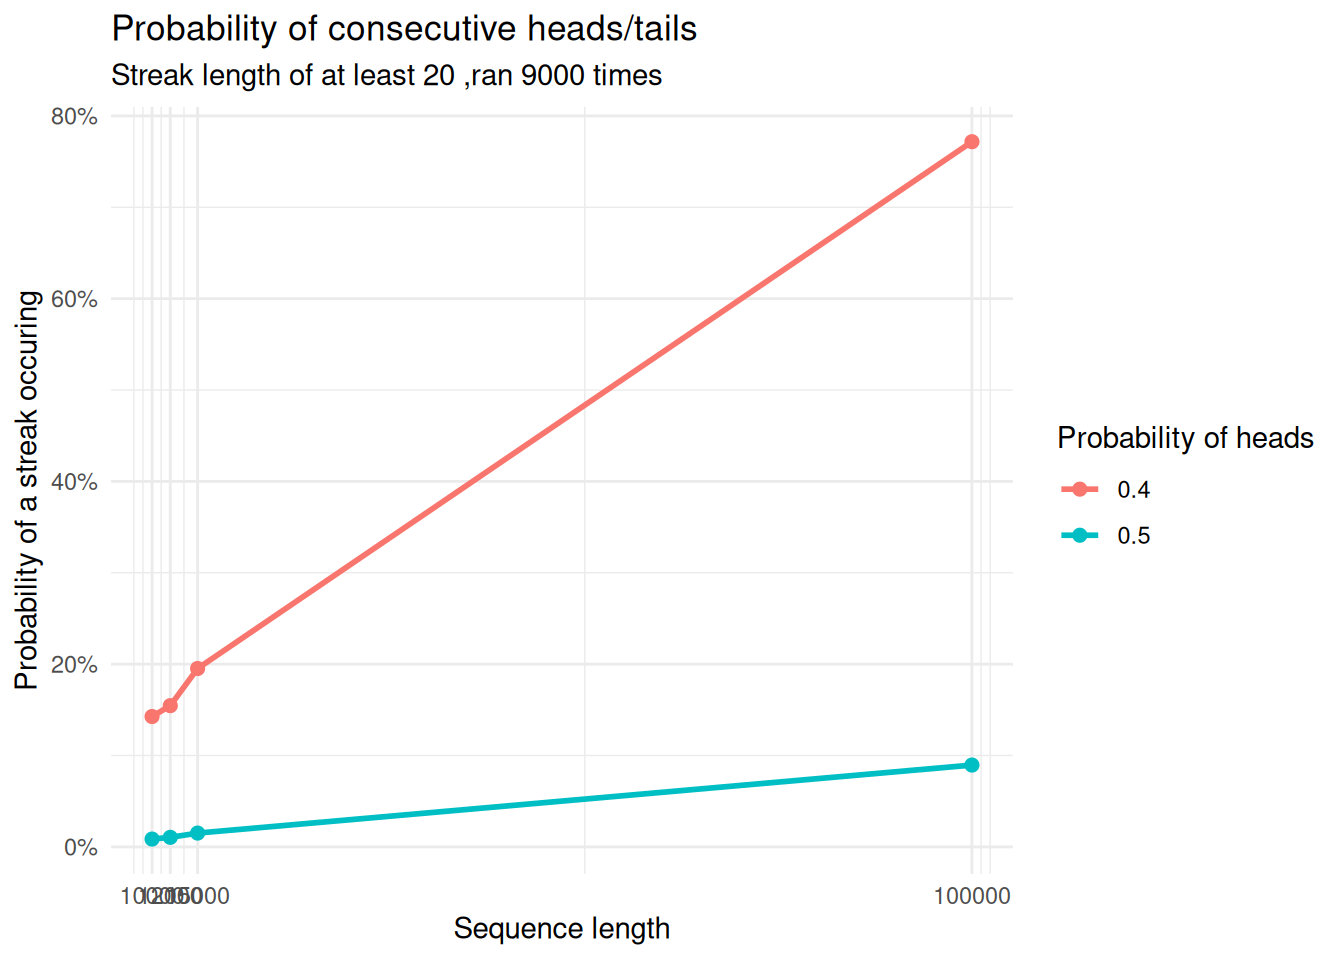
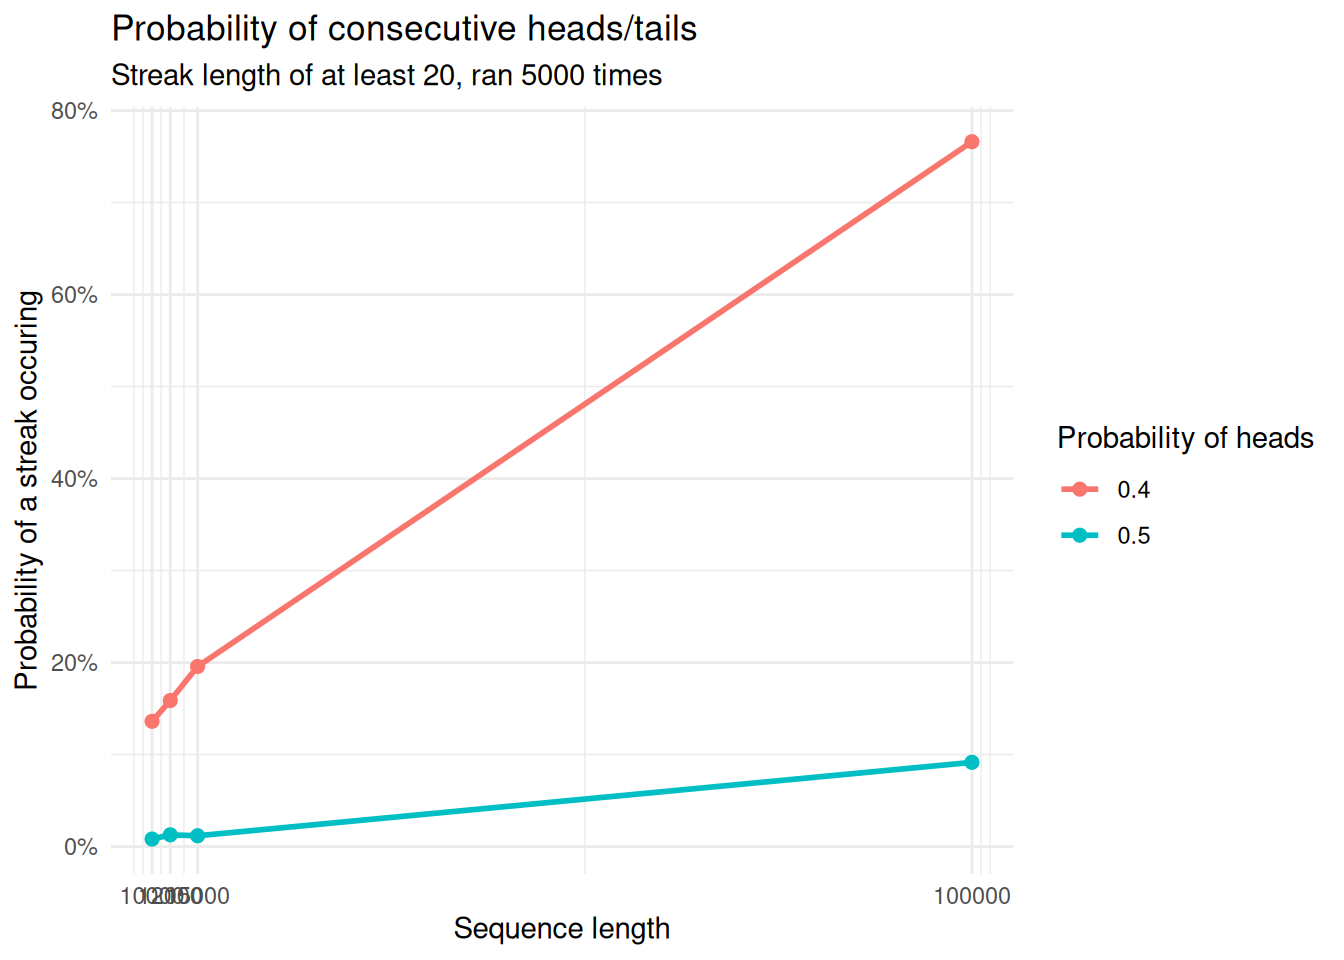
minor changes

diff --git a/docs/binary.html b/docs/binary.html
@@ -7,10 +7,10 @@
 <meta name="viewport" content="width=device-width, initial-scale=1.0, user-scalable=yes">
 
 <meta name="author" content="hzg00-jpg">
-<meta name="dcterms.date" content="2024-11-15">
+<meta name="dcterms.date" content="2024-11-16">
 <meta name="description" content="Analysis of the probability of consecutive streaks">
 
-<title>Birthday problem – Data science</title>
+<title>Consecutive streaks – Data science</title>
 <style>
 /* Default styles provided by pandoc.
 ** See https://pandoc.org/MANUAL.html#variables-for-html for config info.
@@ -210,7 +210,7 @@ window.Quarto = {
 
 <header id="title-block-header" class="quarto-title-block default">
 <div class="quarto-title">
-<h1 class="title">Birthday problem</h1>
+<h1 class="title">Consecutive streaks</h1>
 </div>
 
 <div>
@@ -232,7 +232,7 @@ window.Quarto = {
     <div>
     <div class="quarto-title-meta-heading">Published</div>
     <div class="quarto-title-meta-contents">
-      <p class="date">November 15, 2024</p>
+      <p class="date">November 16, 2024</p>
     </div>
   </div>
   
@@ -246,7 +246,7 @@ window.Quarto = {
 
 <p>Suppose you have a binary sequence: 00101101… that is <span class="math inline">\(n\)</span> bits long (in other words, it contains <span class="math inline">\(n\)</span> ‘digits’).</p>
 <p>What is the possibility of observing a streak with at least <span class="math inline">\(k\)</span> consecutive bits, given a total bit size of <span class="math inline">\(n\)</span>? How does that value change with bias? That is, if probability of getting a 1 is no longer 0.5?</p>
-<p>The applications of this simple question span can span from cryptography to gambling. For example, suppose you generate a cryptographyically secure pseudorandom generator (CSPRNG), or a deterministic random number algorithms that is unpredictable enough to be used in cryptography. If you weren’t sure if the generated number is biased, you could examine the frequency of certain streaks appearing in your generated value, and compare that to typical streaks of <span class="math inline">\(k\)</span> bits in a simulation of the same size. You can also use the results to understand the probability of losing streaks in gambling. If there truly was a 25% chance to win at this game, is your losing streak of 10 expected, or are you extremely unlucky?</p>
+<p>The applications of this simple question span can span from cryptography to gambling. For example, suppose you generate a cryptographyically secure pseudorandom number generator (CSPRNG), or deterministic algorithm that generates random-looking numbers that are unpredictable enough for cryptographic use. If you weren’t sure if the generated number is biased, you could examine the frequency of certain streaks appearing in your generated value, and compare that to typical streaks of <span class="math inline">\(k\)</span> bits in a simulation of the same size. You can also use the results to understand the probability of losing streaks in gambling. If there truly was a 25% chance to win at this game, is your losing streak of 10 expected, or are you extremely unlucky?</p>
 <p>The answer to this question is surprisingly nontrivial to solve. Here, we try to answer this question by doing simulations.</p>
 <section id="coin-analysis" class="level1">
 <h1>Coin analysis</h1>
@@ -265,7 +265,7 @@ window.Quarto = {
 <span id="cb1-5"><a href="#cb1-5" aria-hidden="true" tabindex="-1"></a>sequence_lengths <span class="ot">&lt;-</span> <span class="fu">c</span>(<span class="dv">10000</span>, <span class="dv">12000</span>, <span class="dv">15000</span>, <span class="dv">100000</span>)</span>
 <span id="cb1-6"><a href="#cb1-6" aria-hidden="true" tabindex="-1"></a>probabilities <span class="ot">&lt;-</span> <span class="fu">c</span>(<span class="fl">0.5</span>, <span class="fl">0.4</span>) </span>
 <span id="cb1-7"><a href="#cb1-7" aria-hidden="true" tabindex="-1"></a>k <span class="ot">&lt;-</span> <span class="dv">20</span></span>
-<span id="cb1-8"><a href="#cb1-8" aria-hidden="true" tabindex="-1"></a>num_trials <span class="ot">=</span> <span class="dv">9000</span></span>
+<span id="cb1-8"><a href="#cb1-8" aria-hidden="true" tabindex="-1"></a>num_trials <span class="ot">=</span> <span class="dv">5000</span></span>
 <span id="cb1-9"><a href="#cb1-9" aria-hidden="true" tabindex="-1"></a></span>
 <span id="cb1-10"><a href="#cb1-10" aria-hidden="true" tabindex="-1"></a>simulate_streak <span class="ot">&lt;-</span> <span class="cf">function</span>(n, prob_one, k) {</span>
 <span id="cb1-11"><a href="#cb1-11" aria-hidden="true" tabindex="-1"></a>  bits <span class="ot">&lt;-</span> <span class="fu">sample</span>(</span>
@@ -308,38 +308,41 @@ window.Quarto = {
 <pre><code># A tibble: 8 × 3
   sequence_length prob_one streak_probability
             &lt;dbl&gt;    &lt;dbl&gt;              &lt;dbl&gt;
-1           10000      0.5            0.00856
-2           10000      0.4            0.143  
-3           12000      0.5            0.0104 
-4           12000      0.4            0.155  
-5           15000      0.5            0.0151 
-6           15000      0.4            0.195  
-7          100000      0.5            0.0896 
-8          100000      0.4            0.772  </code></pre>
+1           10000      0.5             0.0082
+2           10000      0.4             0.136 
+3           12000      0.5             0.0128
+4           12000      0.4             0.159 
+5           15000      0.5             0.0118
+6           15000      0.4             0.196 
+7          100000      0.5             0.0916
+8          100000      0.4             0.766 </code></pre>
 </div>
 <details class="code-fold">
 <summary>Code</summary>
-<div class="code-copy-outer-scaffold"><div class="sourceCode cell-code" id="cb3"><pre class="sourceCode r code-with-copy"><code class="sourceCode r"><span id="cb3-1"><a href="#cb3-1" aria-hidden="true" tabindex="-1"></a><span class="fu">ggplot</span>(</span>
-<span id="cb3-2"><a href="#cb3-2" aria-hidden="true" tabindex="-1"></a>  results,</span>
-<span id="cb3-3"><a href="#cb3-3" aria-hidden="true" tabindex="-1"></a>  <span class="fu">aes</span>(</span>
-<span id="cb3-4"><a href="#cb3-4" aria-hidden="true" tabindex="-1"></a>    <span class="at">x =</span> sequence_length,</span>
-<span id="cb3-5"><a href="#cb3-5" aria-hidden="true" tabindex="-1"></a>    <span class="at">y =</span> streak_probability,</span>
-<span id="cb3-6"><a href="#cb3-6" aria-hidden="true" tabindex="-1"></a>    <span class="at">color =</span> <span class="fu">factor</span>(prob_one),</span>
-<span id="cb3-7"><a href="#cb3-7" aria-hidden="true" tabindex="-1"></a>    <span class="at">group =</span> <span class="fu">factor</span>(prob_one)</span>
-<span id="cb3-8"><a href="#cb3-8" aria-hidden="true" tabindex="-1"></a>  )</span>
-<span id="cb3-9"><a href="#cb3-9" aria-hidden="true" tabindex="-1"></a>) <span class="sc">+</span></span>
-<span id="cb3-10"><a href="#cb3-10" aria-hidden="true" tabindex="-1"></a>  <span class="fu">geom_line</span>(<span class="at">linewidth =</span> <span class="dv">1</span>) <span class="sc">+</span></span>
-<span id="cb3-11"><a href="#cb3-11" aria-hidden="true" tabindex="-1"></a>  <span class="fu">geom_point</span>(<span class="at">size =</span> <span class="dv">2</span>) <span class="sc">+</span></span>
-<span id="cb3-12"><a href="#cb3-12" aria-hidden="true" tabindex="-1"></a>  <span class="fu">scale_y_continuous</span>(<span class="at">labels =</span> scales<span class="sc">::</span><span class="fu">label_percent</span>()) <span class="sc">+</span></span>
-<span id="cb3-13"><a href="#cb3-13" aria-hidden="true" tabindex="-1"></a>  <span class="fu">scale_x_continuous</span>(<span class="at">breaks =</span> sequence_lengths) <span class="sc">+</span></span>
-<span id="cb3-14"><a href="#cb3-14" aria-hidden="true" tabindex="-1"></a>  <span class="fu">labs</span>(</span>
-<span id="cb3-15"><a href="#cb3-15" aria-hidden="true" tabindex="-1"></a>    <span class="at">title =</span> <span class="st">"Probability of consecutive heads/tails"</span>,</span>
-<span id="cb3-16"><a href="#cb3-16" aria-hidden="true" tabindex="-1"></a>    <span class="at">subtitle =</span> <span class="fu">paste</span>(<span class="st">"Streak length of at least"</span>, k, <span class="st">",ran"</span>, num_trials, <span class="st">"times"</span>),</span>
-<span id="cb3-17"><a href="#cb3-17" aria-hidden="true" tabindex="-1"></a>    <span class="at">x =</span> <span class="st">"Sequence length"</span>,</span>
-<span id="cb3-18"><a href="#cb3-18" aria-hidden="true" tabindex="-1"></a>    <span class="at">y =</span> <span class="st">"Probability of a streak occuring"</span>,</span>
-<span id="cb3-19"><a href="#cb3-19" aria-hidden="true" tabindex="-1"></a>    <span class="at">color =</span> <span class="st">"Probability of heads"</span></span>
-<span id="cb3-20"><a href="#cb3-20" aria-hidden="true" tabindex="-1"></a>  ) <span class="sc">+</span></span>
-<span id="cb3-21"><a href="#cb3-21" aria-hidden="true" tabindex="-1"></a>  <span class="fu">theme_minimal</span>()</span></code></pre></div><button title="Copy to Clipboard" class="code-copy-button"><i class="bi"></i></button></div>
+<div class="code-copy-outer-scaffold"><div class="sourceCode cell-code" id="cb3"><pre class="sourceCode r code-with-copy"><code class="sourceCode r"><span id="cb3-1"><a href="#cb3-1" aria-hidden="true" tabindex="-1"></a>plot_results <span class="ot">&lt;-</span> results <span class="sc">|&gt;</span></span>
+<span id="cb3-2"><a href="#cb3-2" aria-hidden="true" tabindex="-1"></a>  <span class="fu">filter</span>(sequence_length <span class="sc">!=</span> <span class="dv">100000</span>)</span>
+<span id="cb3-3"><a href="#cb3-3" aria-hidden="true" tabindex="-1"></a></span>
+<span id="cb3-4"><a href="#cb3-4" aria-hidden="true" tabindex="-1"></a><span class="fu">ggplot</span>(</span>
+<span id="cb3-5"><a href="#cb3-5" aria-hidden="true" tabindex="-1"></a>  results,</span>
+<span id="cb3-6"><a href="#cb3-6" aria-hidden="true" tabindex="-1"></a>  <span class="fu">aes</span>(</span>
+<span id="cb3-7"><a href="#cb3-7" aria-hidden="true" tabindex="-1"></a>    <span class="at">x =</span> sequence_length,</span>
+<span id="cb3-8"><a href="#cb3-8" aria-hidden="true" tabindex="-1"></a>    <span class="at">y =</span> streak_probability,</span>
+<span id="cb3-9"><a href="#cb3-9" aria-hidden="true" tabindex="-1"></a>    <span class="at">color =</span> <span class="fu">factor</span>(prob_one),</span>
+<span id="cb3-10"><a href="#cb3-10" aria-hidden="true" tabindex="-1"></a>    <span class="at">group =</span> <span class="fu">factor</span>(prob_one)</span>
+<span id="cb3-11"><a href="#cb3-11" aria-hidden="true" tabindex="-1"></a>  )</span>
+<span id="cb3-12"><a href="#cb3-12" aria-hidden="true" tabindex="-1"></a>) <span class="sc">+</span></span>
+<span id="cb3-13"><a href="#cb3-13" aria-hidden="true" tabindex="-1"></a>  <span class="fu">geom_line</span>(<span class="at">linewidth =</span> <span class="dv">1</span>) <span class="sc">+</span></span>
+<span id="cb3-14"><a href="#cb3-14" aria-hidden="true" tabindex="-1"></a>  <span class="fu">geom_point</span>(<span class="at">size =</span> <span class="dv">2</span>) <span class="sc">+</span></span>
+<span id="cb3-15"><a href="#cb3-15" aria-hidden="true" tabindex="-1"></a>  <span class="fu">scale_y_continuous</span>(<span class="at">labels =</span> scales<span class="sc">::</span><span class="fu">label_percent</span>()) <span class="sc">+</span></span>
+<span id="cb3-16"><a href="#cb3-16" aria-hidden="true" tabindex="-1"></a>  <span class="fu">scale_x_continuous</span>(<span class="at">breaks =</span> sequence_lengths) <span class="sc">+</span></span>
+<span id="cb3-17"><a href="#cb3-17" aria-hidden="true" tabindex="-1"></a>  <span class="fu">labs</span>(</span>
+<span id="cb3-18"><a href="#cb3-18" aria-hidden="true" tabindex="-1"></a>    <span class="at">title =</span> <span class="st">"Probability of consecutive heads/tails"</span>,</span>
+<span id="cb3-19"><a href="#cb3-19" aria-hidden="true" tabindex="-1"></a>    <span class="at">subtitle =</span> <span class="fu">paste0</span>(<span class="st">"Streak length of at least "</span>, k, <span class="st">", ran "</span>, num_trials, <span class="st">" times"</span>),</span>
+<span id="cb3-20"><a href="#cb3-20" aria-hidden="true" tabindex="-1"></a>    <span class="at">x =</span> <span class="st">"Sequence length"</span>,</span>
+<span id="cb3-21"><a href="#cb3-21" aria-hidden="true" tabindex="-1"></a>    <span class="at">y =</span> <span class="st">"Probability of a streak occuring"</span>,</span>
+<span id="cb3-22"><a href="#cb3-22" aria-hidden="true" tabindex="-1"></a>    <span class="at">color =</span> <span class="st">"Probability of heads"</span></span>
+<span id="cb3-23"><a href="#cb3-23" aria-hidden="true" tabindex="-1"></a>  ) <span class="sc">+</span></span>
+<span id="cb3-24"><a href="#cb3-24" aria-hidden="true" tabindex="-1"></a>  <span class="fu">theme_minimal</span>()</span></code></pre></div><button title="Copy to Clipboard" class="code-copy-button"><i class="bi"></i></button></div>
 </details>
 <div class="cell-output-display">
 <div>
@@ -349,6 +352,7 @@ window.Quarto = {
 </div>
 </div>
 </div>
+<p>(Note: length 100,000 is excluded from the plot)</p>
 <p>We can see that, when the coin is fair, the probability of getting 20 heads/tails in a row is very low, below 5% for all rolls below 15,000. On the other hand, when the coin is biased, the probability of getting a 20 streak rises dramatically, hitting almost 20% for 15,000 rolls and 80% for 100,000 rolls.</p>
 <p>An interesting result is how much a relatively small bias can affect the probability of observing long streaks. A slightly biased coin (60/40) was more likely to produce a 20 streak in 10,000 runs than a nonbiased coin in 10x the amount of runs. From a gambler’s perspective, if you are an insane losing streak, it’s much more likely that the game was rigged against you rather than the fact that you were simply just unlucky.</p>
 
